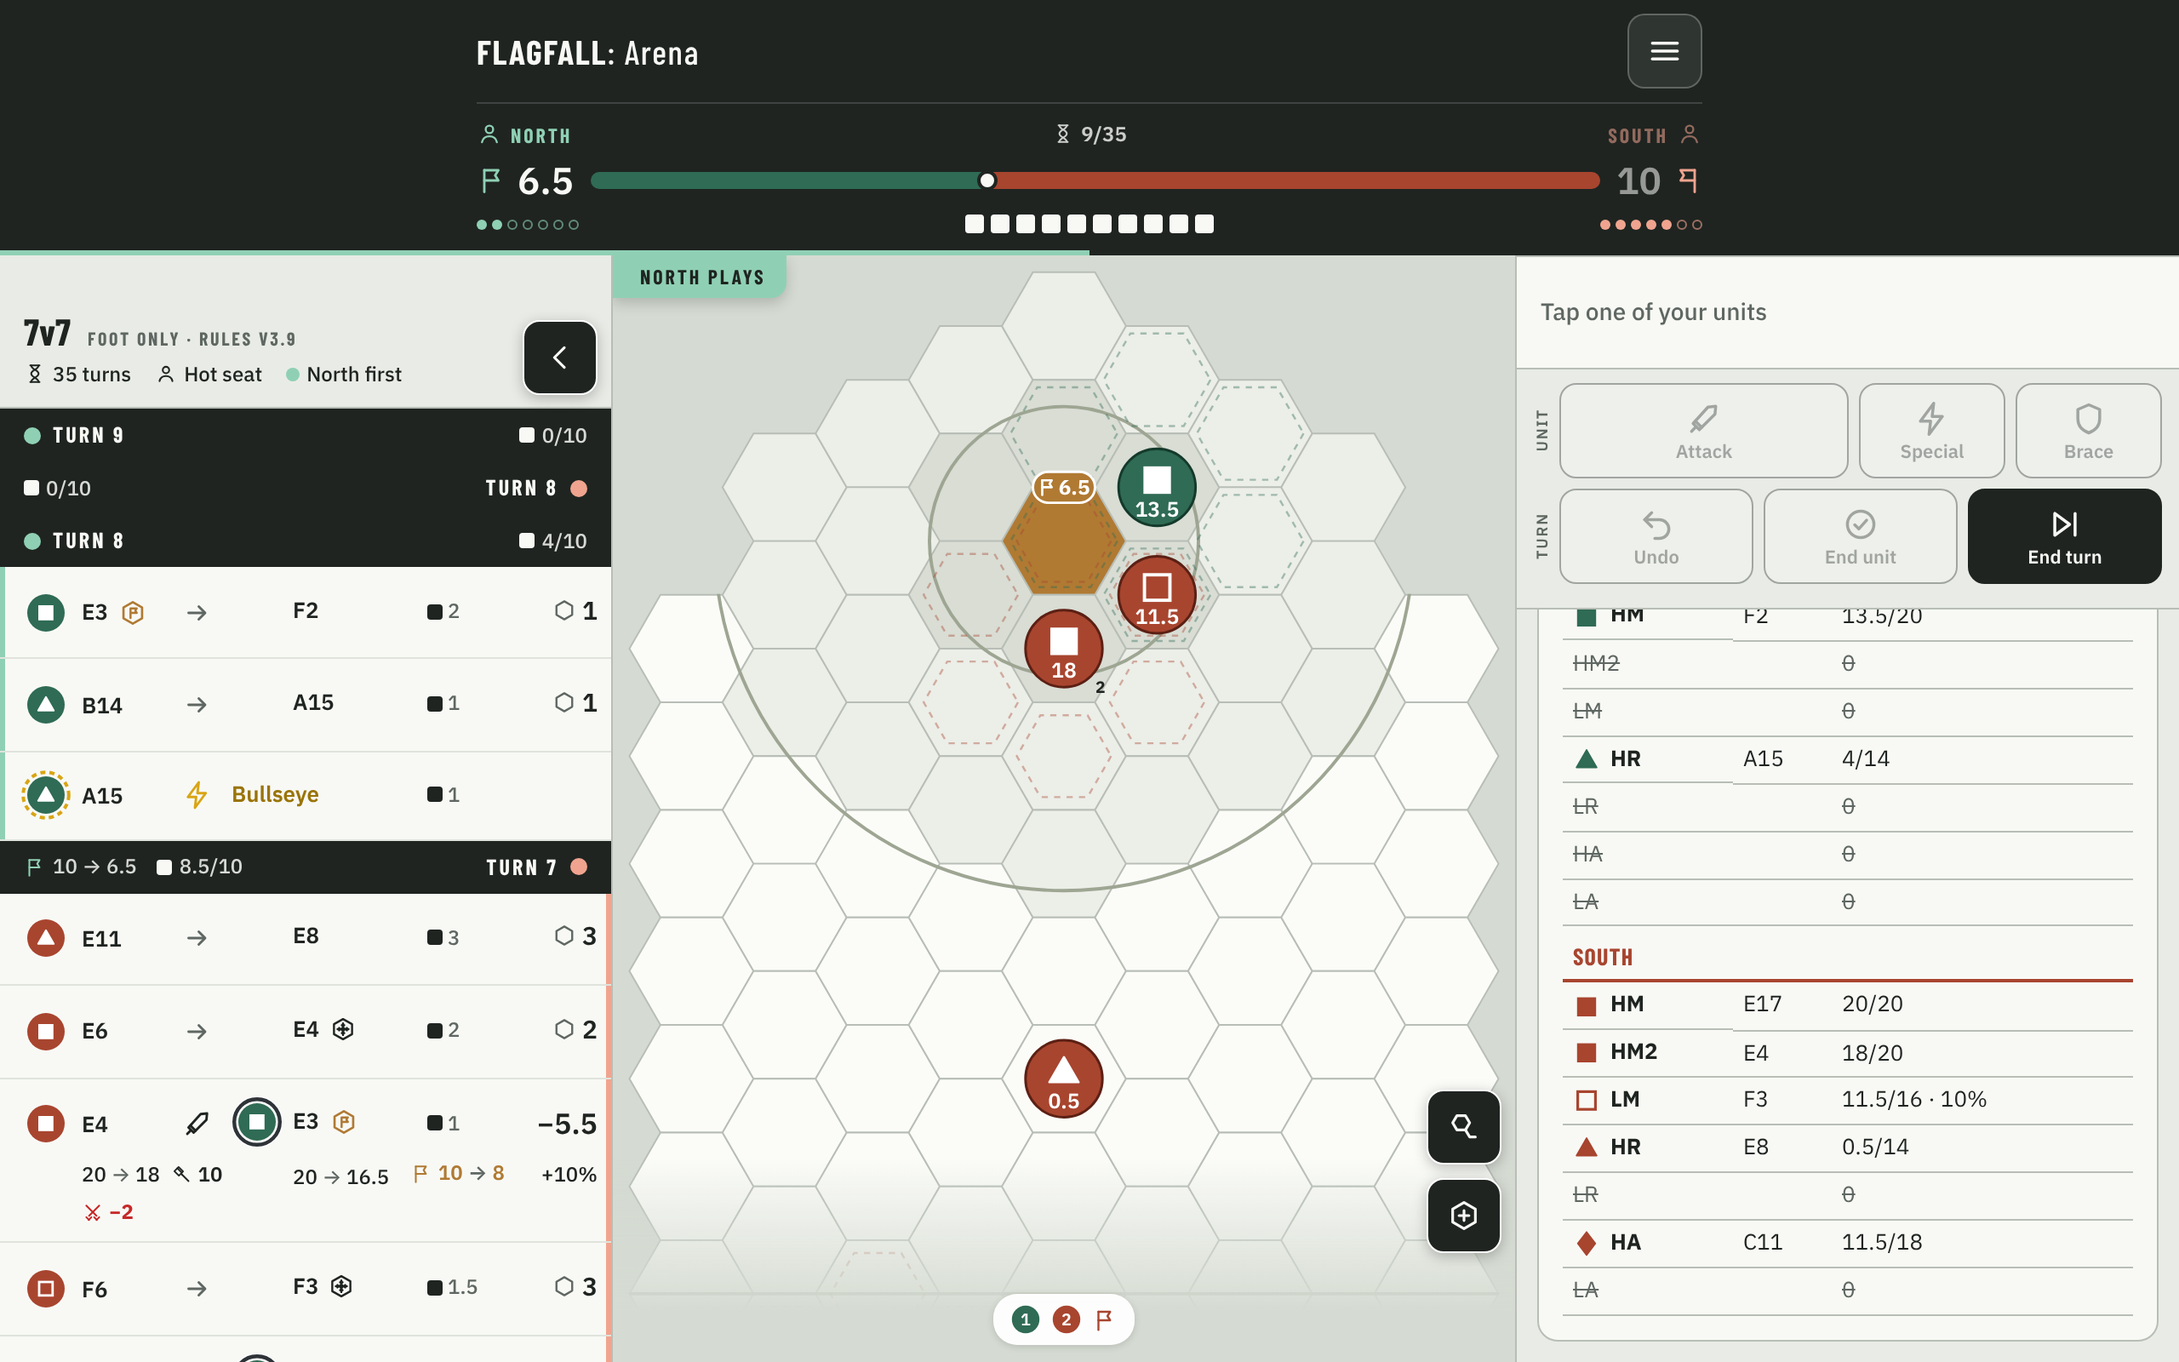
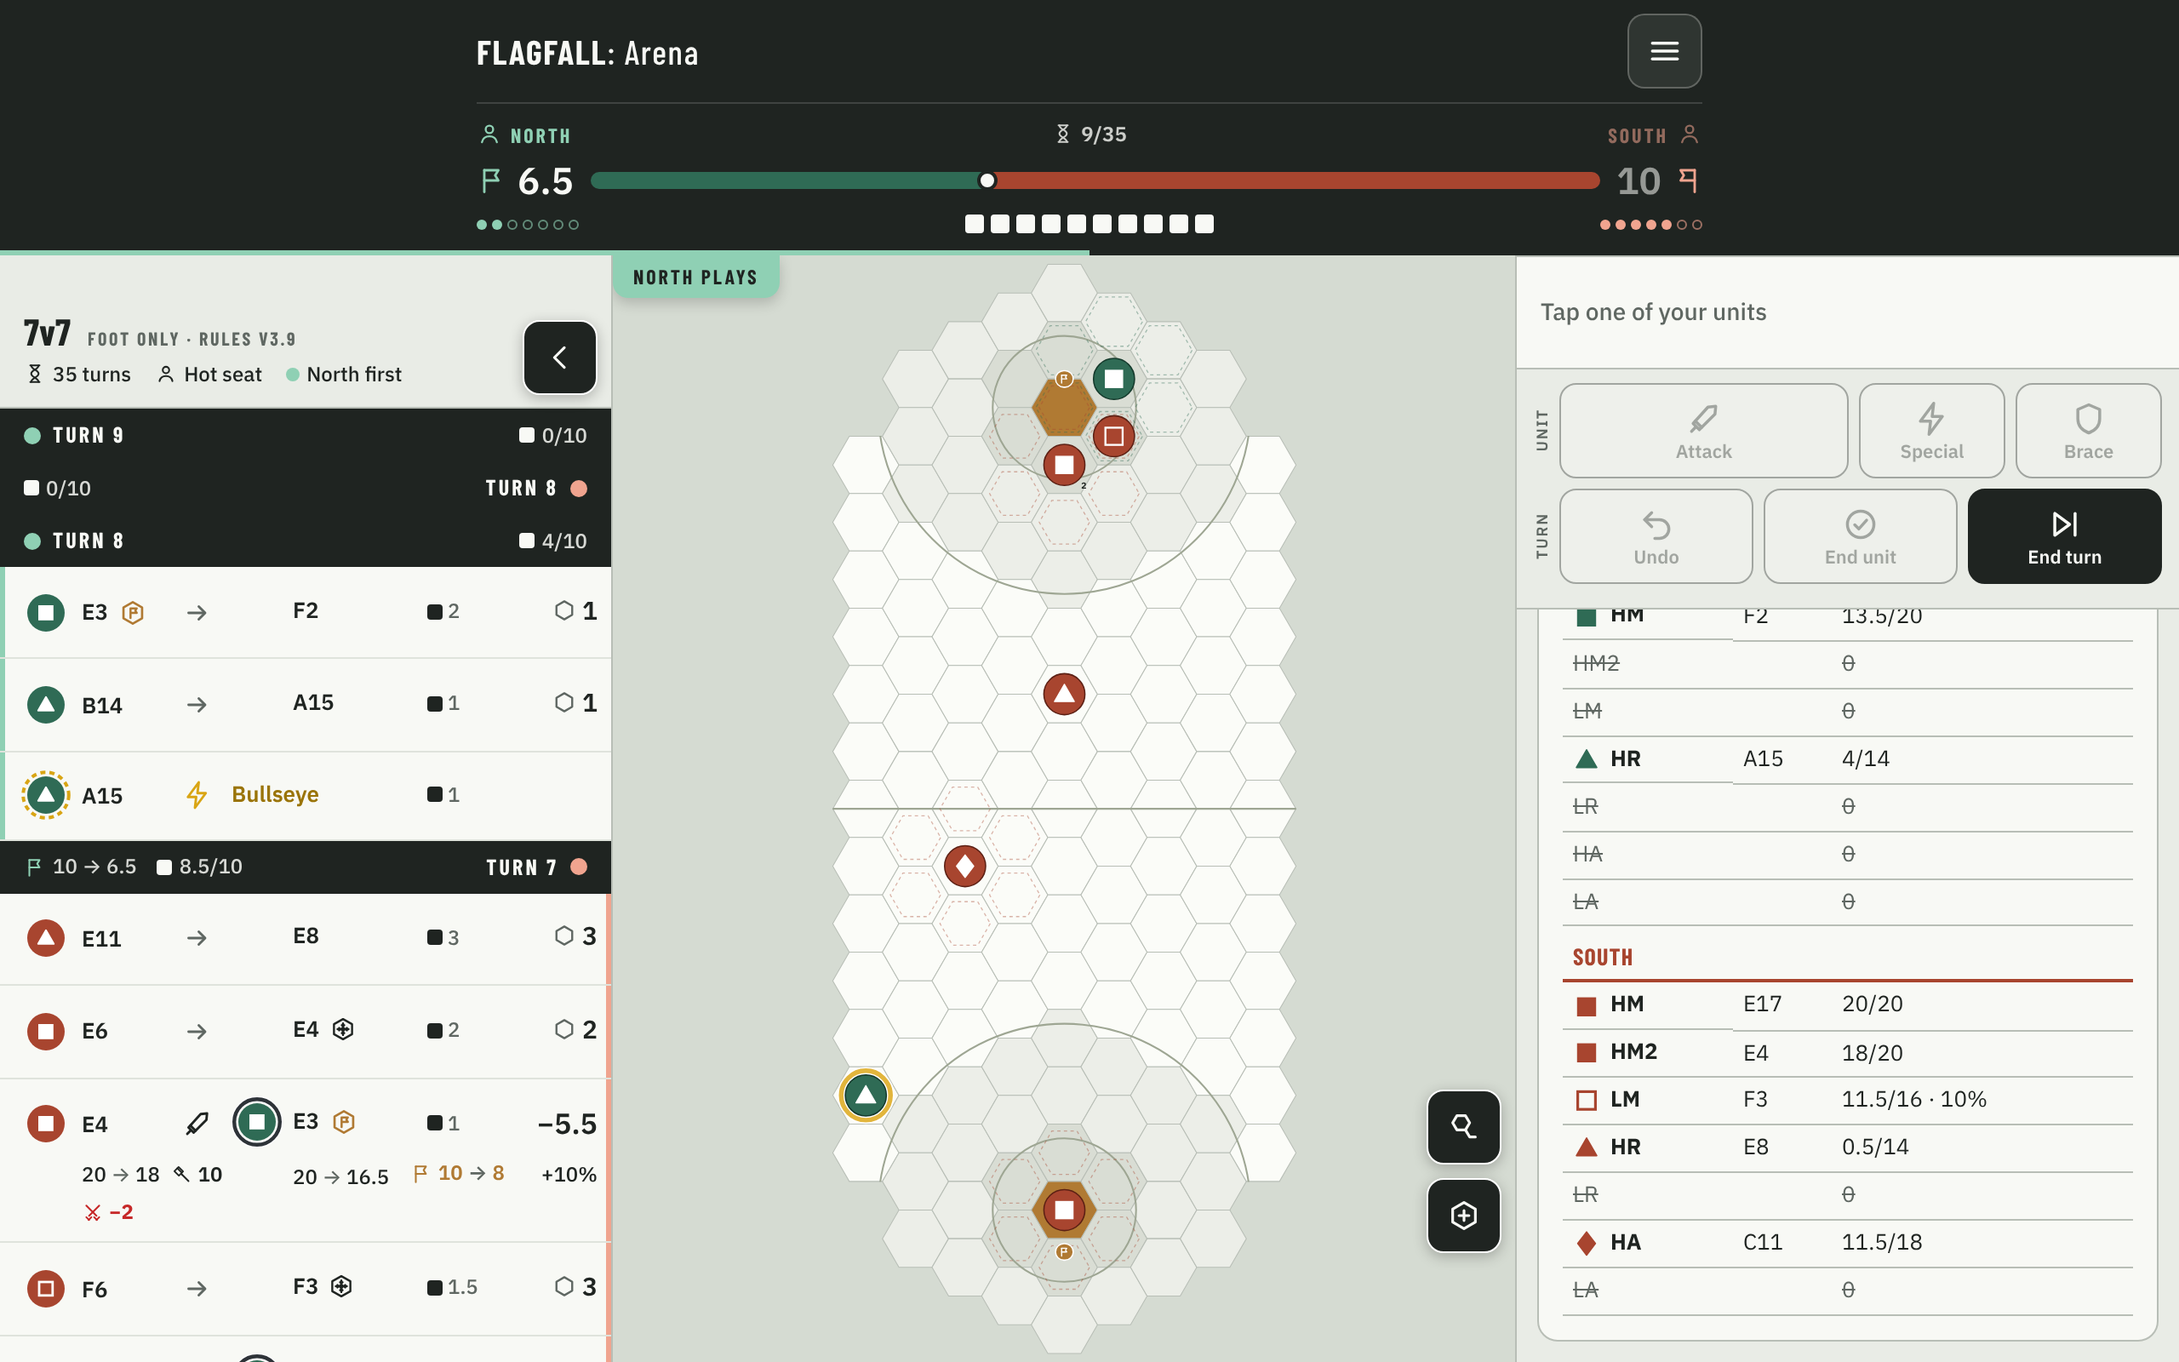
Brief 018 third review (desktop): log button on the left, field keeps its place, tag under the name, zoom out = whole field
Closes F018-2 (the Editor: desktop zoom out shows the whole field).

Claude-Session: https://claude.ai/code/session_01NQibGU52PCpshR1GvwUZXk

diff --git a/board/app.js b/board/app.js
@@ -1066,9 +1066,9 @@
   function kFar() {
     const v = viewBox();
     if (!v.w) return 1;
-    // Far is today's size on both phone and desktop: the field's width, up to 560 px (F018-2: the brief's "desktop: the
-    // whole field fits" would shrink 7v7 to 34 px hexes on a 1280 × 800 screen, icons only).
-    return Math.min(v.w, 560) / boardW();
+    // Phone: the field's width, up to 560 px (today's size). Desktop: the whole field in view (§6; the Editor, 22 Nov,
+    // third review of #54, closing F018-2: zoom out shows the whole field, icons only when hexes are under 50 px).
+    return wide() ? Math.min(v.w / boardW(), v.h / boardH()) : Math.min(v.w, 560) / boardW();
   }
   function kMin() { const v = viewBox(); return Math.min(kFar(), v.w / boardW(), v.h / boardH()); }
   const clampK = (k) => Math.max(kMin(), Math.min(K_MAX, k));
@@ -1283,6 +1283,15 @@
       el.className = "edgetag " + (t === "N" ? "n" : "s");
       el.style.background = bg; el.style.color = SK.tagInk ? SK.tagInk(bg) : "#1f2421";
       el.textContent = `${st.names[t]} ${st.phase === "play" ? "plays" : "deploys"}`;
+      // Desktop (third review): the tag hangs under its side's name in the scoreboard, never off at the field's far edge.
+      const names = document.querySelectorAll("#topbar .tb-row .tb-name"), nm = names[t === "N" ? 0 : 1], fw = $("fieldwrap");
+      el.style.left = el.style.right = "";
+      el.classList.toggle("float", wide() && !!nm);
+      if (wide() && nm) {
+        const r = nm.getBoundingClientRect(), f = fw.getBoundingClientRect(), pad = 12;
+        if (t === "N") el.style.left = Math.max(0, r.left - f.left - pad) + "px";
+        else el.style.right = Math.max(0, f.right - r.right - pad) + "px";
+      }
     }
     el.classList.toggle("up", !show);
     el.setAttribute("aria-hidden", show ? "false" : "true");
@@ -2040,8 +2049,14 @@
   function logPanelOpen() { return logDocked() ? Store.local("logPanel") !== false : !!App.ui.logOverlay; }
   function toggleLog() {
     if (!wide()) { App.ui.logOpen = !App.ui.logOpen; renderLog(); if (App.ui.logOpen) $("logview").scrollTop = 0; else requestAnimationFrame(updateEdges); return; }
+    // Keep the same hex in the middle of the field while the field's width changes (third review: the field jumped).
+    const v0 = viewBox(), mid = boardAt(v0.w / 2, v0.h / 2), wasFar = App.ui.zoom == null, k0 = curK();
     if (logDocked()) Store.local("logPanel", !logPanelOpen()); else App.ui.logOverlay = !App.ui.logOverlay;
+    if (!wasFar && logDocked()) App.ui.zoom = k0;
     render();
+    const v1 = viewBox(), sc = $("fieldscroll"), svg = $("board"), k = curK(), off = svgOff(svg);
+    sc.scrollLeft = mid[0] * k + off[0] - v1.w / 2; sc.scrollTop = mid[1] * k + off[1] - v1.h / 2;
+    requestAnimationFrame(updateEdges);
   }
   function renderLog() {
     const st = App.st, ui = App.ui, el = $("logview"), side = $("logside"), b = $("logbtn"), vp = $("view-play");
@@ -2133,7 +2148,7 @@
     ui.orientSet = true;
     if (App.st.phase !== "over") ui.lastMover = moverNow();
     renderTopbar(); renderBoard(); renderUnitbar(); renderActions(); renderSheet(); renderSide(); renderCover(); renderHint(); renderMenu();
-    applyZoom(); renderTag(); renderLog();
+    renderLog(); applyZoom(); renderTag();   // the log panel first: it changes the field's width
     $("namesbtn").setAttribute("aria-pressed", ui.names ? "true" : "false");
     if (anim) { turnAnim(w, () => render()); return; }
     if (ui.anim) return;

diff --git a/board/tests/test_hotseat.js b/board/tests/test_hotseat.js
@@ -235,6 +235,31 @@ const state = () => {
   });
   ok(/20 → 16\.5/.test(hold) && /10 → 8\.5/.test(hold) && !/16\.67/.test(hold), `a holder row shows the display split: "${hold.trim()}"`);
 
+  // ---- Desktop (1304 × 800): zoom out shows the whole field; the log panel opens and closes without moving the field ----
+  {
+    const dp = await browser.newPage({ viewport: { width: 1304, height: 800 } });
+    dp.on("pageerror", (e) => errors.push(e.message));
+    await dp.goto("file://" + path.join(boardDir, "index.html") + "?shots=1");
+    await dp.waitForFunction(() => window.GGShots && window.GGShots.App);
+    await dp.evaluate(() => { try { localStorage.removeItem("gg.logPanel"); } catch (e) { /* none */ } });
+    await dp.evaluate(setup, { view: "handoff", turns: 2, bot: true }); await dp.waitForTimeout(400);
+    const d = await dp.evaluate(async () => {
+      const sc = document.getElementById("fieldscroll"), svg = document.getElementById("board"), w = document.getElementById("fieldwrap").getBoundingClientRect(), r = svg.getBoundingClientRect();
+      const whole = r.width <= w.width + 1 && r.height <= w.height + 1;
+      document.getElementById("zoombtn").click(); await new Promise((x) => setTimeout(x, 400));
+      sc.scrollTop += 120;
+      const mid = () => { const b = sc.getBoundingClientRect(), el = document.elementFromPoint(b.left + b.width / 2, b.top + b.height / 2), g = el && el.closest("[data-hex]"); return g ? g.dataset.hex : null; };
+      const m0 = mid(); document.querySelector("#logside .lg-hide").click(); await new Promise((x) => setTimeout(x, 200));
+      const m1 = mid(), btn = document.getElementById("logbtn").getBoundingClientRect(), fw = document.getElementById("fieldwrap").getBoundingClientRect();
+      document.getElementById("logbtn").click(); await new Promise((x) => setTimeout(x, 200));
+      return { whole, m0, m1, m2: mid(), btnLeft: btn.left - fw.left, panel: !document.getElementById("logside").hidden };
+    });
+    ok(d.whole, "desktop: zoom out (far) shows the whole field");
+    ok(d.m0 && d.m0 === d.m1 && d.m1 === d.m2, `desktop: hiding and showing the log panel keeps the same hex in the middle (${d.m0} → ${d.m1} → ${d.m2})`);
+    ok(d.btnLeft < 20 && d.panel, `desktop: the log button sits at the field's left and opens the panel (${d.btnLeft.toFixed(0)} px from the left)`);
+    await dp.close();
+  }
+
   ok(!errors.length, "no page errors: " + errors.join("; "));
   await browser.close();
   console.log(fails ? `${fails} of ${n} checks FAILED` : `All ${n} checks passed`);

diff --git a/board/index.html b/board/index.html
@@ -133,11 +133,13 @@ h3 { margin: 0 0 8px; font: 700 17px/1.1 var(--display); text-transform: upperca
 #namesbtn[aria-pressed="true"] { background: var(--card); color: var(--ink); border: 2px solid var(--ink); }
 #zoombtn { right: 8px; bottom: 64px; }
 #logbtn { right: 8px; top: 38px; z-index: 6; }
+@media (min-width: 900px) { #logbtn { right: auto; left: 8px; } }
 /* Brief 018 §2: the turn cue, hanging from the scoreboard at the outer edge of the mover's half */
 .edgetag { position: absolute; top: 0; z-index: 7; max-width: 50%; overflow: hidden; text-overflow: ellipsis; white-space: nowrap; font: 700 12px/1 var(--display); letter-spacing: .12em; text-transform: uppercase; color: #1f2421; padding: 6px 12px 7px; box-shadow: 0 3px 8px rgba(0,0,0,.18); pointer-events: none; transition: transform 150ms ease-in, opacity 150ms ease-in; }
 .edgetag:empty { display: none; }
 .edgetag.n { left: 0; padding-left: 16px; border-radius: 0 0 9px 0; }
 .edgetag.s { right: 0; padding-right: 16px; border-radius: 0 0 0 9px; }
+.edgetag.float { border-radius: 0 0 9px 9px; padding-left: 12px; padding-right: 12px; }
 .edgetag.up { transform: translateY(-100%); opacity: 0; box-shadow: none; }
 body.turned { transform: rotate(180deg); }
 #fieldscroll.panx { }

diff --git a/CHANGELOG.md b/CHANGELOG.md
@@ -27,12 +27,12 @@ Newest first. One entry per build, written for the Editor: what a player notices
 Rule set: none changed (v3.9 stays the new-game default). Default brain: Brain 5, unchanged. UI: Approved UI v4 screens on top of v5. Game version **v3.15.00** (YY: new screens and a new setting).
 
 **What a player will notice**
-- **Turn cue (hot seat only):** a tag hangs from the scoreboard on the mover's side, "NORTH PLAYS" / "SOUTH PLAYS" (and "… DEPLOYS"), for the whole turn; it slides away when the turn passes.
+- **Turn cue (hot seat only):** a tag hangs from the scoreboard on the mover's side, "NORTH PLAYS" / "SOUTH PLAYS" (and "… DEPLOYS"), for the whole turn; it slides away when the turn passes. On desktop it hangs under that side's name in the scoreboard.
 - **Hot-seat view** (Settings step and the in-match Options menu): **Handoff** (as before), **Flip** (the field spins so the mover's flag is at the bottom), **Face to Face** (phones only: phone flat between you, the screen turns to face whoever is playing; the field never moves).
-- **Field zoom on every format:** pinch, or the new zoom button under hex names (close = 100 px hexes on every format; far = as before; pinch to 120 px). Drag to pan. A touch that moves more than 8 px never taps; a second finger cancels a drag. Desktop: mouse wheel, drag, + and −.
+- **Field zoom on every format:** pinch, or the new zoom button under hex names (close = 100 px hexes on every format; far = the field's width on a phone, the whole field on desktop; pinch to 120 px). Drag to pan. A touch that moves more than 8 px never taps; a second finger cancels a drag. Desktop: mouse wheel, drag, + and −.
 - **Zoomed out (hexes under 50 px), tokens show icons only**; tap a unit for its HP. 9v9 and 13v13 can be zoomed to fit or to 60 px hexes.
 - **Hex names sit in the middle of the hex**; the hex-names button moved to the right edge, above zoom.
-- **Match log:** on a phone, a new top-right button swaps the field for the log; on desktop it is a panel on the field's left (beside the field at 1200 px and wider, with a Hide button; over the field on narrower windows) (newest turn on top, each turn in play order, one row per action with Stamina, damage, HP before → after, OUT, Parry, set spear, holder and flag; tap an attack to see its sum). Options → Match log shows the same rows; the side column's Recent list is gone.
+- **Match log:** on a phone, a new top-right button swaps the field for the log; on desktop it is a panel on the field's left (beside the field at 1200 px and wider, with a Hide button; over the field on narrower windows), opened from a button at the field's top left; the field keeps its place when the panel opens or closes (newest turn on top, each turn in play order, one row per action with Stamina, damage, HP before → after, OUT, Parry, set spear, holder and flag; tap an attack to see its sum). Options → Match log shows the same rows; the side column's Recent list is gone.
 
 **Under the hood**
 - `engine.js`: a display-only list `st.events` beside `st.log`, one entry per log line, with the facts the log rows need. Not enumerable, so it is never copied, saved, hashed or read by the rules, brains or lab. `st.log` is word for word unchanged; every preset and brain replays with identical hashes.

diff --git a/flags/018.md b/flags/018.md
@@ -5,7 +5,7 @@ Same columns and status words as `FLAGS.md`.
 | # | Date | Raised by | Issue | Status | Resolved in / next step |
 |---|---|---|---|---|---|
 | F018-1 | 22 Nov | Code | §10.1/§10.2: on a phone the Options (menu) button sits at the field's top left, exactly where the log's settings bar puts "7v7 FOOT ONLY · RULES V3.9" (left 14 px, 33 px down). The brief keeps only the right 66 px clear. Built as: the menu button hides while the log is open, like hex names and zoom; one tap on Show field brings it back. Recommendation: keep it | ASK | The Editor or the UI chat: keep, or move line 1 right of the menu button (it then may not fit "5v5 Blitz" plus the rule set at 393 px) |
-| F018-2 | 22 Nov | Code | §6 says desktop "far" is the whole field in view "(today)". Today's desktop field is not whole: it is 560 px wide and scrolls. Making it fit 1280 × 800 shrinks 7v7 to 34 px hexes, so every token loses its HP number (§8), which changes 017's desktop screen ("Must not change"). Built as: far stays today's size on desktop too; pinch, wheel and +/− reach every zoom down to the whole field. Recommendation: keep it | ASK | The Editor: keep, or take the brief literally (whole field, icons only on desktop at far) |
+| F018-2 | 22 Nov | Code | §6 says desktop "far" is the whole field in view "(today)". Today's desktop field is not whole: it is 560 px wide and scrolls. Making it fit 1280 × 800 shrinks 7v7 to 34 px hexes, so every token loses its HP number (§8), which changes 017's desktop screen ("Must not change"). Built as: far stays today's size on desktop too; pinch, wheel and +/− reach every zoom down to the whole field. Recommendation: keep it | CLOSED | The Editor, 22 Nov (third review of #54): zoom out shows the whole field on desktop. Built: desktop far = the whole field in view (icons only when hexes are under 50 px); phone far unchanged (the field's width) |
 | F018-3 | 22 Nov | Code | §6 hides the zoom button when far and close are "within 10% of each other". On the Editor's 393 px phone, 7v7 far is 54.1 px against close's 60 px: 9.8% apart measured against close, 10.9% against far. Built as: measured against the smaller, so the button shows on 7v7 (the hands-on check uses it there) | CLOSED | Superseded in review (the Editor, 22 Nov: zoom in must go nearer): close is now 1.5 × far (60 to 120 px), so far and close are never within 10% except at the limits |
 | F018-4 | 22 Nov | Code | §9 (scale the flag pill by hex height ÷ 46.26): 017's pill is drawn in field units, like the hexes, so it already scales with the hex on every format and zoom, and is exactly 017's pill at 7v7 far. No change was needed; icons-only (§8) drops its number below 50 px | ASK | The Editor: accept (nothing to build) |
 | F018-5 | 22 Nov | Code | §10.5 has no row for a swap. Built as: one move row for the unit that started the swap, its friend's token and hex in the target column, 1 hex moved | ASK | The UI chat: accept, or draw a swap row |

diff --git a/briefs/018-turn-cue-zoom.md b/briefs/018-turn-cue-zoom.md
@@ -228,6 +228,7 @@ Play a few turns on a phone in each hot-seat view: check the tag appears on each
   5. Desktop match log (second review): a 360 px panel on the field's left, beside the field at 1200 px and wider with a Hide button (remembered on this device); below 1200 px it starts collapsed and the field's log button opens it over the field. The side column's Recent list is removed. A stopgap until the UI chat designs it (F018-6).
   - Second review, also: the play link had not been republished after the first fixes (GitHub queued it), so the Editor's second test ran the earlier build; "South's deployment shows North's flag" (hot seat) and "the tag goes on the first click" were already fixed. New checks for both, and for scroll-then-wheel-zoom.
   6. The tag stays up for the whole turn and goes when the turn passes (replaces §2's "goes on the first touch").
+- **Third review (the Editor, 22 Nov, desktop):** the log button sits at the field's top left on desktop (beside the panel it opens); opening or closing the panel keeps the same hex in the middle of the field; the tag hangs under its side's name in the scoreboard on desktop (not at the field's far edge); desktop zoom out shows the whole field (closes F018-2). Phone unchanged. `test_hotseat.js` checks all three at 1304 × 800.
 - **Anything beyond the brief, and why:** zoom-out on desktop goes to the whole field when far is nearer than close (otherwise the button did nothing there; F018-2). A drag on your own unit now starts at 8 px, not 12, so a press that moves more than 8 px is never a tap (§6).
 - **Checks run and results (paste regression hashes):** every README check run in this session. test_rules, v1, v3, v31, v33, v34, fields (127), route (59), stamina (833), reasons (19), version (22), ui (114), rng (20), replay (386 checks, 0 mismatches), phone (64/64), new test_hotseat (31/31), new test_events (1,307 checks at 2 games per set). Also test_v32 (40), v35 (6), v36 (4), v37 (2), kitd (6), brain5/6/7 (2), watch (18), invariants (30 games, 0 problems), lab self_test, test_stall, test_lead, test_capacity, status test_board, board_check (10 games, 0 different). **Replay hashes:** `node tests/regress_engine.js <board> 2 all` on the board before this build (main at v3.14.01, Build 19) and after: all **143 lines identical** (every preset, newest included, with every brain). Brain 5's lines:
 ```
